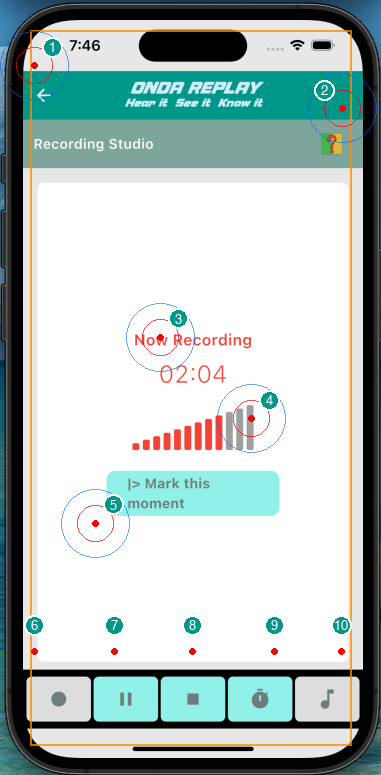
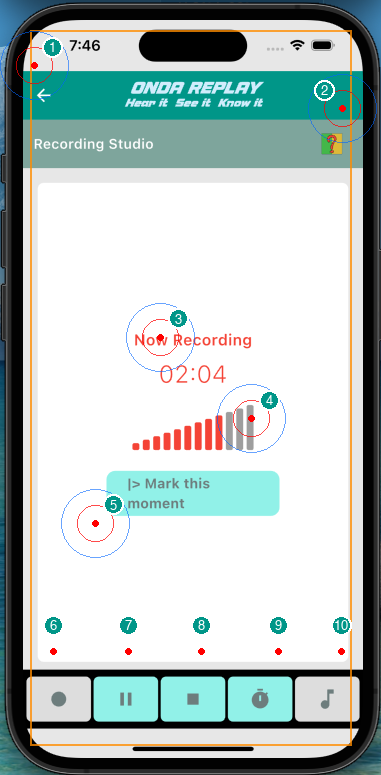
Fix row-spacing bug: scale from center instead of shifting
The along-axis fix from the previous commit could only correct one
end of a row at a time - a single sideways shift can fix a left-edge
violation OR a right-edge violation, not both simultaneously. When a
row's natural width doesn't fit inside the margins at all (both ends
too close to their respective edges at once, which is exactly what
happened here), shifting fixes one side and leaves the other exactly
as cramped as before, breaking even spacing across the row.

David's proposed fix: work from the row's own center outward instead
of from the edges inward. Now computes the row's center point and,
only if the natural width exceeds available room, scales every
member's distance from that center inward by the same factor. Both
ends clear the margin simultaneously and relative spacing stays even,
because it's a proportional compression around the middle, not a
translation.

diff --git a/tools/place_callouts.py b/tools/place_callouts.py
@@ -119,21 +119,27 @@ def place_callouts(image_path, centers_pct, order, output_path):
         if shift is None:
             shift = -((MIN_DIST + MAX_DIST) / 2)
 
-        # Along-axis (X) correction: if the leftmost/rightmost member's
-        # original X already violates the edge margin, nudge the WHOLE
-        # row sideways by the deficit — preserves relative spacing
-        # between members instead of only moving the offending one.
+        # Along-axis (X) correction: a uniform SHIFT can only fix one end
+        # of the row at a time — if both the leftmost and rightmost
+        # members are simultaneously too close to their respective edges
+        # (a row whose natural width doesn't fit inside the margins at
+        # all), sliding the row sideways fixes one end and leaves the
+        # other exactly as cramped as before, breaking even spacing.
+        # Instead, scale every member's distance from the row's own
+        # center point inward by the same factor, only if needed — this
+        # compresses the row symmetrically around its middle rather than
+        # translating it, so both ends clear the margin at once and
+        # relative spacing stays proportional and even.
         ctr_xs = [centers_pct[m][0] / 100 * W for m in row]
-        x_shift = 0
-        left_deficit = (RADIUS + EDGE_MARGIN) - min(ctr_xs)
-        if left_deficit > 0:
-            x_shift = left_deficit
-        right_deficit = max(ctr_xs) - (W - (RADIUS + EDGE_MARGIN))
-        if right_deficit > 0:
-            x_shift = -right_deficit
+        row_center = (min(ctr_xs) + max(ctr_xs)) / 2
+        half_width = (max(ctr_xs) - min(ctr_xs)) / 2
+        room_left = row_center - (RADIUS + EDGE_MARGIN)
+        room_right = (W - (RADIUS + EDGE_MARGIN)) - row_center
+        available_half = min(room_left, room_right)
+        scale = 1.0 if half_width <= available_half or half_width == 0 else available_half / half_width
 
         for m in row:
-            cx = centers_pct[m][0] / 100 * W + x_shift
+            cx = row_center + (centers_pct[m][0] / 100 * W - row_center) * scale
             cy = centers_pct[m][1] / 100 * H + shift
             placed.append((m, cx, cy))
 
